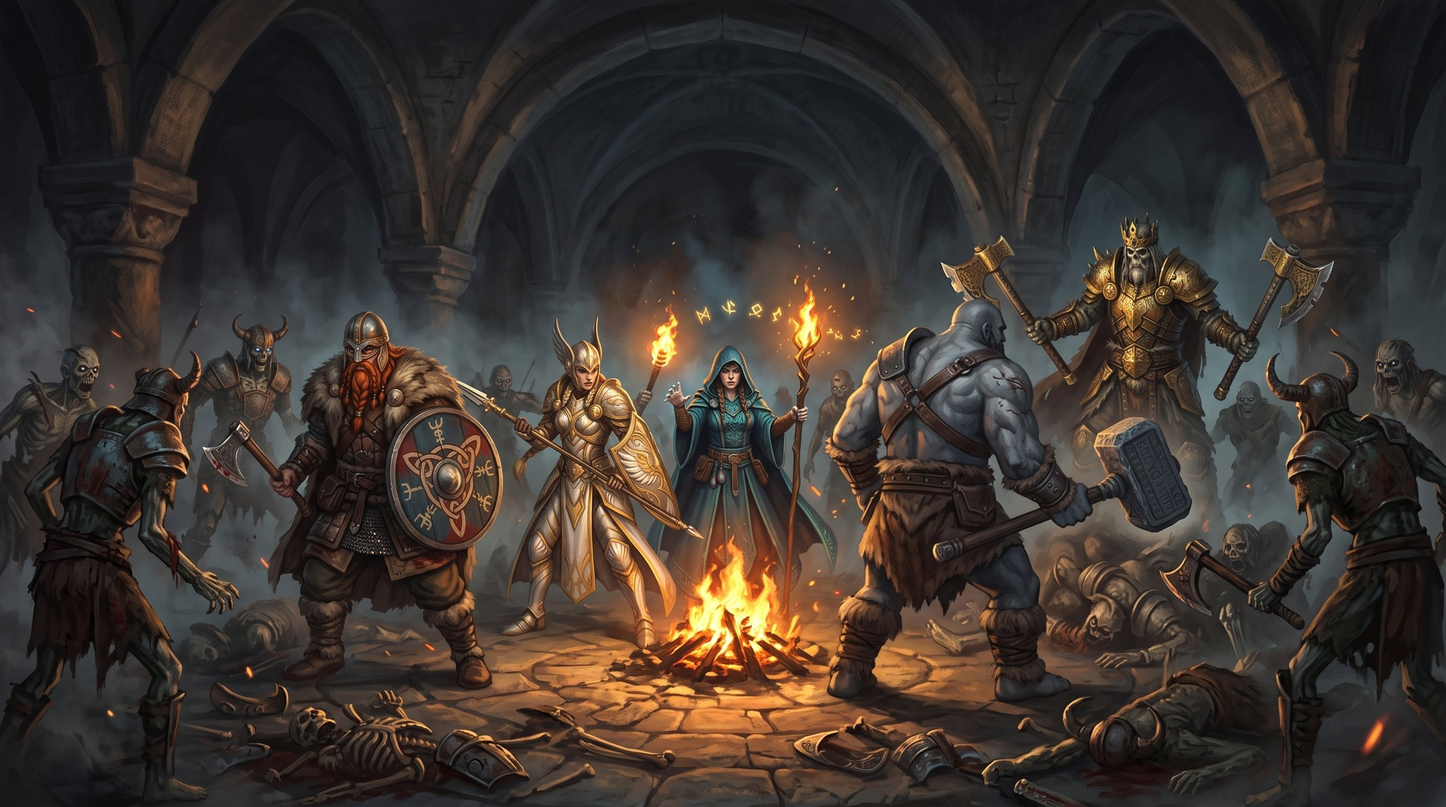
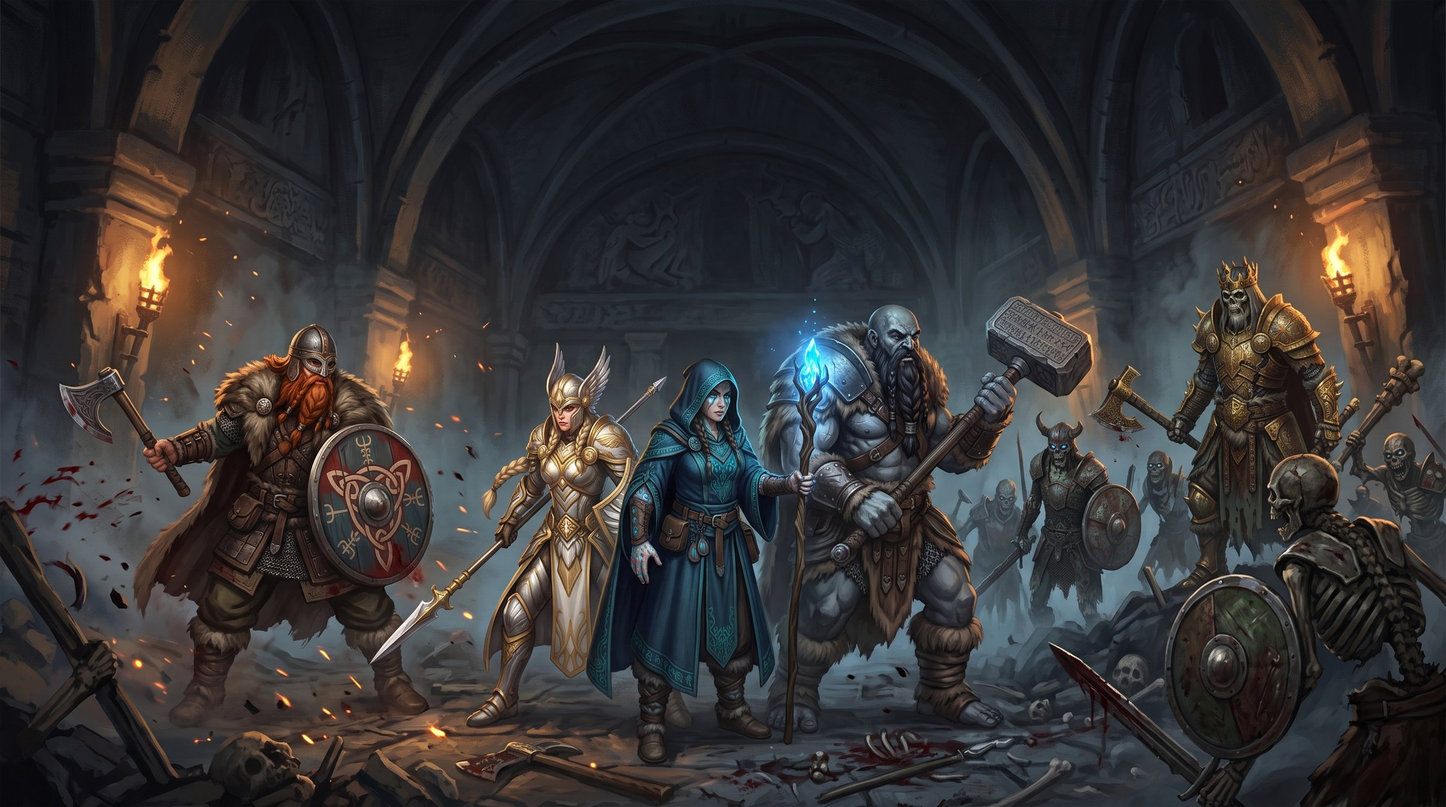
Depths of Ruin: repainted key art, and the owner's copy changes
All four heroes face the viewer in the hero painting (the jotunn had his back
to us). Tagline loses "Go down."; the story heading is "The Neverending
Downward Spiral Stairs"; the closing line is "Below the kings' chairs, / the
dark stairs seem to have no end..."; the disclosure says design decisions and
direction are human, not code and writing.

diff --git a/depthsofruin/index.html b/depthsofruin/index.html
@@ -7,12 +7,12 @@
   <meta name="description" content="Depths of Ruin is a dark Norse roguelite action RPG. Descend through eight realms of the dead, take the blessings of three gods, and kill the lord of each realm. Coming to Steam.">
   <meta property="og:type" content="website">
   <meta property="og:title" content="Depths of Ruin">
-  <meta property="og:description" content="The dead have stopped keeping their bargain. Go down. A Norse roguelite action RPG, coming to Steam.">
+  <meta property="og:description" content="The dead have stopped keeping their bargain. A Norse roguelite action RPG, coming to Steam.">
   <meta property="og:image" content="https://tacotruckgames.com/depthsofruin/images/image_metadata_tag.jpg">
   <meta property="og:url" content="https://tacotruckgames.com/depthsofruin/">
   <meta name="twitter:card" content="summary_large_image">
   <meta name="twitter:title" content="Depths of Ruin">
-  <meta name="twitter:description" content="The dead have stopped keeping their bargain. Go down. A Norse roguelite action RPG, coming to Steam.">
+  <meta name="twitter:description" content="The dead have stopped keeping their bargain. A Norse roguelite action RPG, coming to Steam.">
   <meta name="twitter:image" content="https://tacotruckgames.com/depthsofruin/images/image_metadata_tag.jpg">
   <link rel="icon" href="images/icon.png">
   <link rel="apple-touch-icon" href="images/icon.png">
@@ -656,7 +656,7 @@
       <p class="hero-subtitle">A Norse Roguelite Action RPG</p>
     </div>
     <div class="hero-foot">
-      <p class="hero-tagline">The dead have stopped keeping their bargain. Go down.</p>
+      <p class="hero-tagline">The dead have stopped keeping their bargain.</p>
       <div class="cta-row">
         <!-- TODO: point at the Steam store page once it exists, e.g.
              https://store.steampowered.com/app/<APP_ID>/Depths_of_Ruin/ -->
@@ -922,7 +922,7 @@
   <section class="story">
     <div class="wrap">
       <span class="kicker">The bargain</span>
-      <h2>Why You Are Going Down</h2>
+      <h2>The Neverending Downward Spiral Stairs</h2>
       <div class="story-grid">
         <div class="panel">
           <img src="images/story-1.jpg" alt="Kings buried under the hills">
@@ -948,7 +948,7 @@
 
   <!-- CTA -->
   <section class="cta">
-    <p class="display">Under where he sat, the stair keeps going down.</p>
+    <p class="display">Below the kings' chairs,<br>the dark stairs seem to have no end...</p>
     <div class="cta-row">
       <a class="steam-cta" href="#" data-steam-app="" rel="noopener">
         <svg viewBox="0 0 24 24" aria-hidden="true"><path d="M12 2C6.7 2 2.4 6.1 2 11.3l5.4 2.2a2.8 2.8 0 0 1 1.6-.5h.2l2.4-3.5v-.1a3.8 3.8 0 1 1 3.8 3.8h-.1l-3.4 2.4v.2a2.8 2.8 0 0 1-5.6.3L2.4 14.6A10 10 0 1 0 12 2Zm-5.7 15.2 1.2.5a2.1 2.1 0 1 0 1.1-4l-1.3-.5a1.5 1.5 0 1 1-1 2.8Zm9.1-8.2a2.5 2.5 0 1 0 0 5 2.5 2.5 0 0 0 0-5Zm0 .6a1.9 1.9 0 1 1 0 3.8 1.9 1.9 0 0 1 0-3.8Z"/></svg>
@@ -961,7 +961,7 @@
   <!-- Footer -->
   <footer class="footer">
     <p>&copy; 2026 Taco Truck Games, LLC &mdash; Seattle, WA</p>
-    <p class="disclosure">Art generated with Gemini, then hand-directed, corrected and cut. Sound effects are recorded (CC0 and CC-BY). Code, design and writing are human.</p>
+    <p class="disclosure">Art generated with Gemini, then hand-directed, corrected and cut. Sound effects are recorded (CC0 and CC-BY). Design decisions and direction are human.</p>
     <div class="footer-links">
       <a href="privacy-policy.html">Privacy Policy</a>
       <a href="tos.html">Terms of Service</a>
